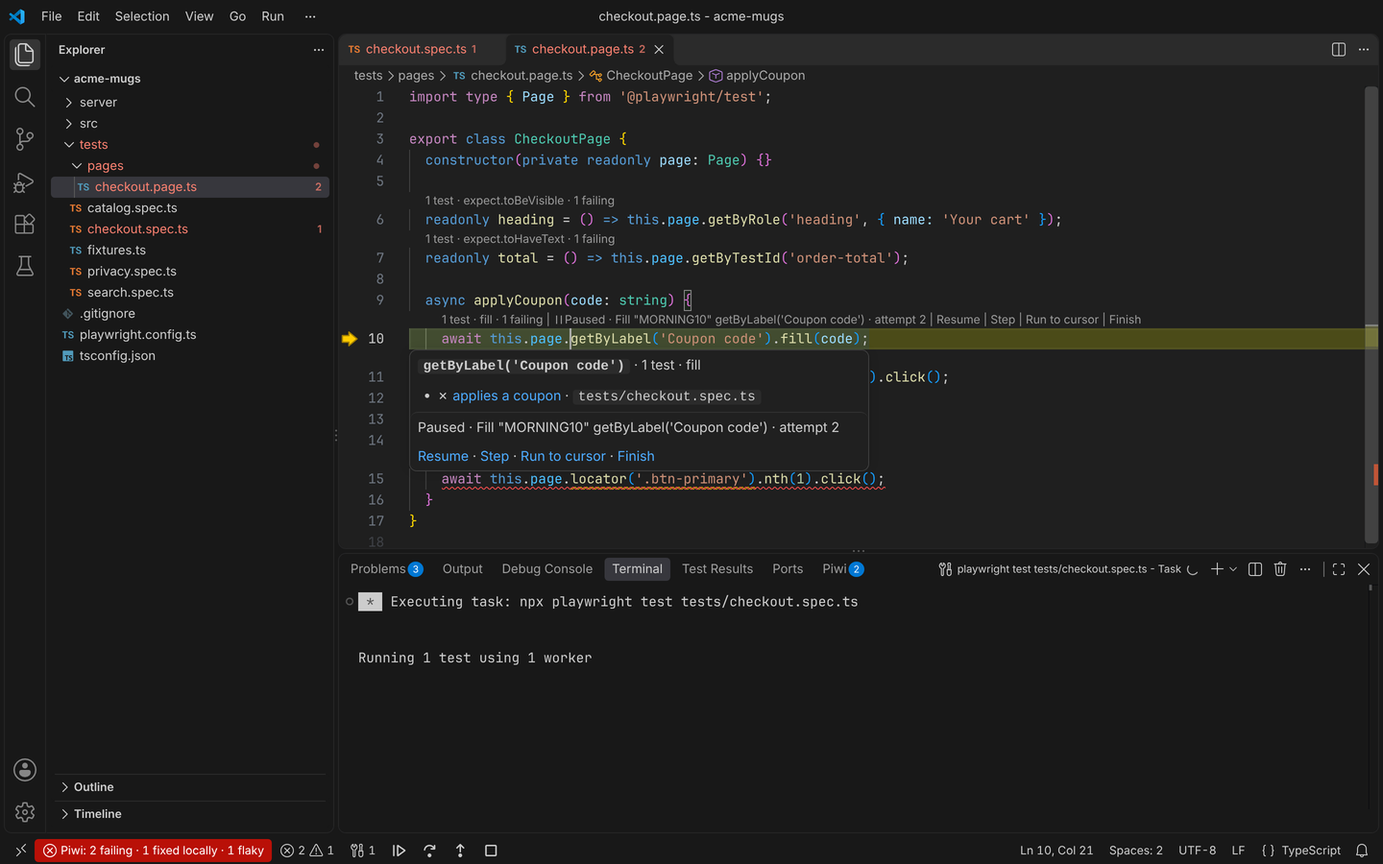
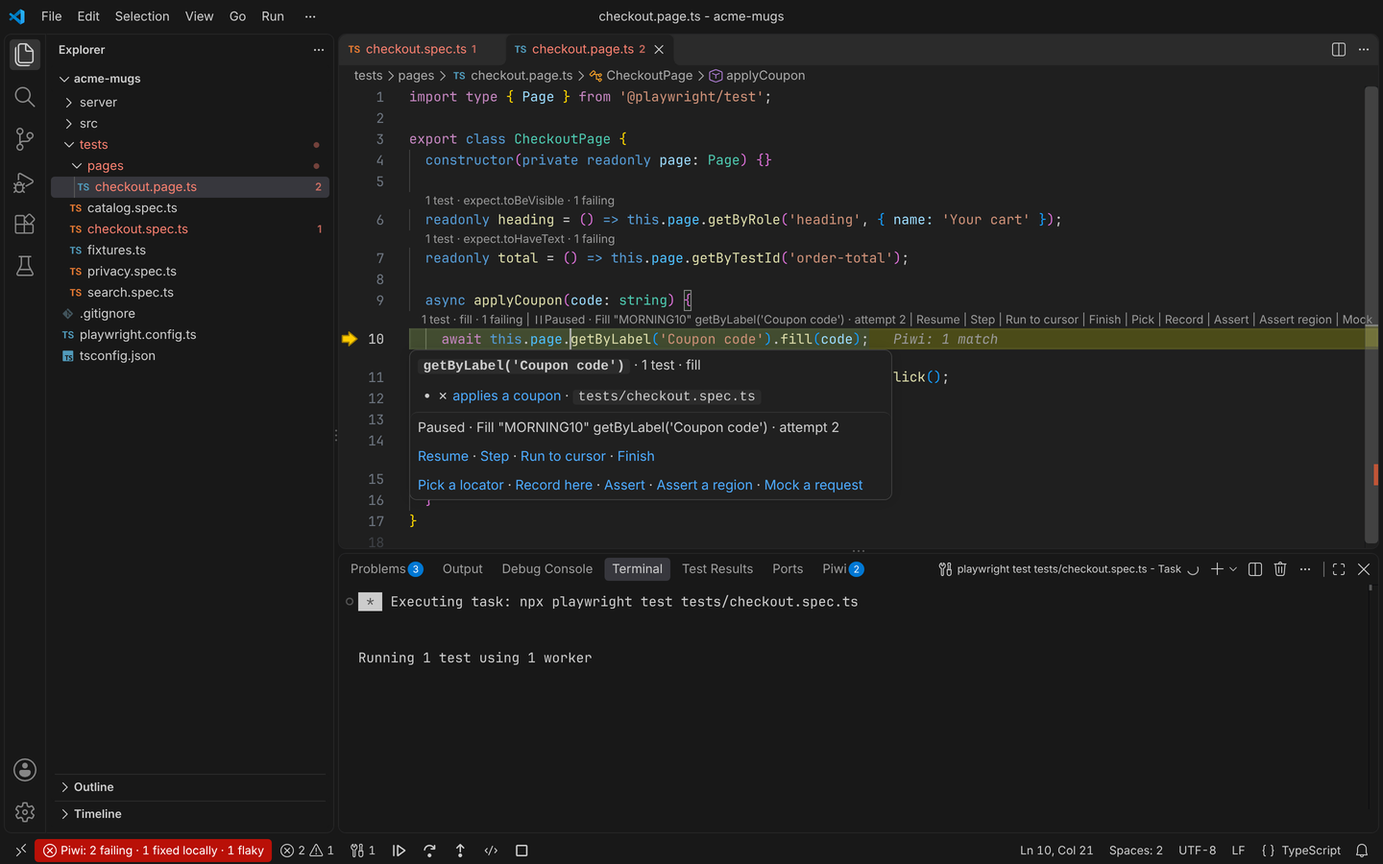
docs(docs): write code from a pause in the IDE, with Mock's list and the cursor's count on screen
Code from a pause is a feature page of its own (the run control page
is at its word budget), in the catalog after the run controls' page.
It says what the five actions write and where each IDE offers them, where the
code goes and when nothing is written, Mock a request's list and the
credentials and warnings of what it writes (the example is mockCode's
own output), the count of the locator at the cursor, a failure held
for the editor (only where someone can see it: a headed run's pause
bar, or a Runs window following the runs; the page at the failure is
Piwi's evidence, while Playwright's trace and video include the hold),
and its limits. The run control, editors and JetBrains pages and both
READMEs link to it.

The VS Code screenshots' run plays a worker whose reporter takes every
code action: run-control-code shows the stop's lens with the code
actions, the count at the line's end and Mock a request's list, and
the three run-control scenes are captured again with the lens they now
show. The window keeps its secrets in a file (--password-store=basic):
on a machine without an OS keyring SecretStorage never answers, and
the run never starts.

The run-control proposal's Status says PR 4's IDE half is built and how
it differs from the text; the 1.0 register says what a locator count's
answer names.

Claude-Session: https://claude.ai/code/session_01DKo6yNaaodQpN4msxRpgX1

Changed region(s): [[0.3125, 0.3422, 0.9688, 0.4044], [0.3125, 0.5289, 0.625, 0.5911], [0.3438, 0.9644, 0.375, 0.9956]]

diff --git a/apps/application/shared/piwi-features.ts b/apps/application/shared/piwi-features.ts
@@ -631,6 +631,15 @@ export const PIWI_FEATURE_GROUPS: FeatureGroup[] = [
         doc: 'features/editor-run-control',
       },
       {
+        title: 'Code from a pause',
+        summary:
+          "At a test paused or failed in a run Piwi started, an assertion, a region's ARIA snapshot or a mock of a request the page made written above the stopped line, a locator picked or steps recorded there, and the count of the locator at the cursor on the stopped page.",
+        needs: ['fixtures'],
+        where:
+          "The paused line's CodeLens in VS Code, Piwi: Write code at the stop…; its inlay and Tools → Piwi in a JetBrains IDE",
+        doc: 'features/editor-stop-code',
+      },
+      {
         title: 'Record tests from the editor',
         summary:
           "A browser your project's own Playwright opens from VS Code or a JetBrains IDE, and each step you take there written at the cursor as you go, with verified locators and calls to your page objects.",

diff --git a/apps/docs/features/editor-stop-code.md b/apps/docs/features/editor-stop-code.md
@@ -1,0 +1,143 @@
+---
+title: Code from a pause
+description: "At a test paused or failed in a run Piwi started from VS Code or a JetBrains IDE, write an assertion, a region's ARIA snapshot or a mock of a request the page made above the stopped line, pick a locator or record steps there, and see how many elements the locator at the cursor matches on the stopped page."
+lang: en-US
+---
+
+# Code from a pause
+
+<Needs reporter fixtures />
+
+When a test stops in a run the [editor extensions](./editors) started, at a breakpoint, after **Pause** or **Step**,
+or at a failure, the editor offers code written from the page as it stands: an assertion of what you see, a mock of a
+request the page made, a better locator, the missing steps. The work on the page happens in the test's own browser;
+the editor service writes the code, and the editor puts it above the stopped line. The controls that move the test
+are on [Pause and step from the editor](./editor-run-control).
+
+## The actions
+
+| Action | What is written | Where it runs |
+|---|---|---|
+| **Pick a locator** | The locator of the element you pick, in place of the locator chain on the stopped line | The test's window, as the pause bar's [Pick a locator](./editor-breakpoints#where-the-pick-lands) |
+| **Record here** | The steps you take, above the stopped line | The test's window, as the bar's [Record here](./editor-breakpoints#record-from-a-pause) |
+| **Assert** | The check you choose in the recorder's check panel, `await expect(…).toHaveText(…)` and the like | The test's window |
+| **Assert a region** | `await expect(…).toMatchAriaSnapshot(…)` with the ARIA snapshot of the region you pick | The test's window |
+| **Mock a request** | `await page.route(…)` that answers as the server answered a request the page made | The editor alone, at any stop |
+
+The first four need the pause bar, so a headed browser: a run Piwi starts with breakpoints is headed. **Mock a
+request** works headless too.
+
+- **In VS Code**, they are in the line above the stopped line, after the controls (named **Pick**, **Record**,
+  **Assert**, **Assert region** and **Mock** there), in its hover, in the palette while a stop offers them (**Piwi:
+  Assert in the stopped test's page**, **Piwi: Mock a request of the stopped test**…), and behind the status bar's
+  `</>` item, **Piwi: Write code at the stop…**.
+- **In a JetBrains IDE**, they are links in the inlay above the stopped line (by the same short names), in the
+  gutter icon's menu, first in the status bar item's menu, and under **Tools → Piwi** (**Assert at the Stop**, **Mock
+  a Request at the Stop**…).
+
+None has a default key: bind one in **Preferences: Open Keyboard Shortcuts** or **Settings → Keymap** (search
+`piwi`). A stop offers only the actions its reporter takes: with one that predates them, none.
+
+<figure>
+  <img src="/screenshots/vscode-run-control-code.png" alt="VS Code: a test paused before it types a coupon; above the line, the controls then Pick, Record, Assert, Assert region and Mock; at the line's end, Piwi: 1 match; at the top, the list of the requests the test made, to mock one">
+  <figcaption>Mock a request lists the answers the test received; the line's locator matches one element on the paused page.</figcaption>
+</figure>
+
+## Where the code goes
+
+The code goes on a new line above the stopped statement (the first line of a statement broken over lines), indented
+for it, on the page in scope there (`this.page` in a page object), with the import of `expect` the file lacks, as one
+edit that one undo takes away. A second action at the same stop goes above the same statement, under the first.
+The running test goes on with the code it started with: the new lines run next time, which the first code of a run
+says.
+
+Nothing is written, and the editor says why, at a stop:
+
+- outside a test's or a function's body, such as a test timeout stopped at its `test(` line;
+- as the body of an `if`, `else`, `for`, `while` or `do` without braces, or on a line where no statement starts;
+- in a file written on disk since the run started, or unsaved as it started: Piwi follows a file through the edits
+  the editor makes, not through another program's;
+- that the test went on from: an action answers the stop it was offered at.
+
+Assert and Assert a region check this before anything opens in the test's window. Code that arrives while you type in
+its file is not written into the changed text: a warning offers **Copy the code**.
+
+## Mock a request
+
+In a run Piwi started, each worker keeps the text answers its test's pages received for `fetch` and
+XHR requests, the latest 50, 256 KB each at most, in its memory only. **Mock a request** lists them, the latest first,
+by method and URL (type to filter on the URL), with the status, the type, the size (`no size` when the response did
+not say) and when it finished in the test. Only the answer you choose is read whole:
+
+```ts
+await page.route('**/api/shipping?country=FR', (route) =>
+  route.fulfill({
+    json: {
+      "methods": [
+        {
+          "id": "standard",
+          "price": 4.9
+        }
+      ],
+      "token": "<hidden>"
+    },
+  }),
+);
+```
+
+It is written as [Piwi Picker's Network tab](./mock-requests#mock-this-response) writes one, the body inline whatever
+its size, with what it hides:
+
+- **Credentials.** A field named like a password, a token, a key, a signature or a session is written as `<hidden>`,
+  whatever it holds, and so is a value shaped like a token anywhere in the body (a JWT, a bearer token, an AWS,
+  Google, Stripe, GitHub or Slack key); such a query value becomes `**` in the URL pattern. The list hides them in its
+  URLs too. Headers, cookies included, are never written.
+- **Warnings.** The editor says how many values it wrote as `<hidden>`, that a body neither JSON nor a form was
+  written as it came (read it before you commit it), and that a body seems to hold an email address or a phone
+  number (replace it with made-up data).
+
+## The locator at the cursor
+
+While a test is stopped, put the cursor on a line of the stopped file: its end says how many elements the line's
+locator matches on the stopped page, `Piwi: 3 matches`, `1 match` or `no match`, and where the pause bar shows, the
+matches are outlined in the page. Edit the locator and it is counted again once you stop typing. The outline goes
+when the cursor leaves the file or the test goes on.
+
+The locator must start from the page the test stopped on, as the code written there would: a line of `adminPage` at a
+stop on `page` may be another page, and says so for a moment instead of a count. Only the stopped file's lines are
+counted, and a line without a locator says nothing.
+
+## A failure
+
+In a run Piwi started, a failing test holds its page once the test function, its hooks and its fixtures are done,
+instead of closing it, when someone can see it: in a headed browser, where the pause bar shows the failure (a run
+started with breakpoints, or for a spec with `page.pause()`, is headed), or while Piwi Picker's
+[Runs window](./extension#runs-from-the-editor) follows the runs. The editor shows it as a stop of its own, at the
+line where the error entered the test's code, or at the call a test timeout cut short:
+
+`Failed · Timed out 5000ms waiting for getByRole('button', { name: 'Apply' }) · attempt 2`  Resume  Pick  Record …
+
+**Resume** lets the test end as it failed (**Step** and **Finish** do the same); **Pick** replaces the failing
+locator, **Record** writes the steps that were missing above the failing line, and the code actions work as at any
+stop. Every attempt that fails is held, never an expected failure. A headless failure in any other run, such as a
+plain **Run**, goes on at once, and the editor shows nothing of it.
+
+The run reports the failure as it happened. Piwi's evidence of it is the page at the failure: the requests, console
+entries and dialogs of the hold are not recorded. Playwright's own trace and video go on through it.
+
+## Limits
+
+- **Runs Piwi started only**, with a reporter that takes the actions.
+- **Assert offers what a recording's check panel offers**: a value, a text, a name, visible or hidden, enabled or
+  disabled, with no `toBeChecked` or `toHaveCount` choice.
+- **Assert a region** leaves out a password field's value and a link whose URL holds a credential.
+- **Mock a request** knows `fetch` and XHR answers with a text body only; one the browser no longer holds cannot be
+  mocked, which the editor says.
+- **The count needs a locator Piwi reads**: literal arguments, starting from a page in scope on the line.
+
+## Related
+
+- [Pause and step from the editor](./editor-run-control): the controls, the paused line, a headless test's page.
+- [Breakpoints in the browser](./editor-breakpoints): the pause bar, Pick a locator and Record here.
+- [Mock and slow down requests](./mock-requests): the same mocks from Piwi Picker's Network tab.
+- [Recorded code](./recorded-code): what a recording writes, and how the config shapes it.

diff --git a/apps/docs/features/editor-run-control.md b/apps/docs/features/editor-run-control.md
@@ -12,7 +12,8 @@ A test run the [editor extensions](./editors) start can be paused, stepped and r
 own commands: no debug session starts, and the IDE's debugger works as usual beside it. The editor marks the line the
 test stopped at, as a debugger does, and the breakpoints you set or remove reach the run while it goes on. The
 [pause bar](./editor-breakpoints#pause-a-run) in the page answers the same stops, as does Piwi Picker's
-[Runs window](./extension#runs-from-the-editor), with a shortcut you set to pause and resume from any window.
+[Runs window](./extension#runs-from-the-editor), with a shortcut you set to pause and resume from any window. At a
+stop, the editor also writes code from the page: [Code from a pause](./editor-stop-code).
 
 ## The controls
 
@@ -25,8 +26,8 @@ test stopped at, as a debugger does, and the breakpoints you set or remove reach
 | **Finish** | Runs the test on without stopping at a breakpoint again in this attempt | `Shift+F11` | Step Out's, `Shift+F8` |
 | **Stop** | Ends the run's process | `Shift+F5` | the Run tool window's Stop |
 
-The keys are the IDE's own debugger keys (VS Code's defaults; in a JetBrains IDE, those actions' shortcuts in your
-keymap, the default keymap's shown), Piwi's only while their control applies and no debug session runs. Where a
+The keys are the IDE's own debugger keys (in a JetBrains IDE, your keymap's, the default one's shown), Piwi's only
+while their control applies and no debug session runs. Where a
 JetBrains keymap also gives one to another action (the VSCode keymap's `F5`, NetBeans' `F4`), Piwi's goes first while
 it applies. On macOS, `Cmd+F10` runs to the cursor in VS Code. **Pause** has no key in VS Code, since it applies as
 long as the test runs: bind one in **Preferences: Open Keyboard Shortcuts** (search `piwi`), where the others change
@@ -48,15 +49,16 @@ Playwright's own debugger, says why.
 
 ## Where the test stands
 
-When a test stops, at a breakpoint, after **Step** or **Pause**, on the line it was run to, or at `page.pause()`, the
-editor opens the file of the call about to run, a spec or a page object, with the cursor on its line, and marks it:
+When a test stops, at a breakpoint, after **Step** or **Pause**, on the line it was run to, at `page.pause()`, or at
+[a failure](./editor-stop-code#a-failure), the editor opens the file of the call about to run, with the cursor on its
+line, and marks it:
 an arrow in the gutter, the debugger's execution point color, and above it the call, as Playwright names it, with the
 controls:
 
 `Paused · Fill "MORNING10" getByLabel('Coupon code') · attempt 2`  Resume  Step  Run to cursor  Finish
 
-`attempt 2` shows on a retry. In VS Code the line is a CodeLens, and the hover on the marked line has the same
-controls; the color is `piwi.executionPointBackground`. In a JetBrains IDE the line is an inlay whose words are links,
+`attempt 2` shows on a retry. In VS Code the line is a CodeLens, and the marked line's hover has the same controls;
+the color is `piwi.executionPointBackground`. In a JetBrains IDE the line is an inlay whose words are links,
 the arrow's click lists the controls, and the color is **Settings → Editor → Color Scheme → Piwi → Line a run is
 stopped at**. The mark goes when the test goes on (from the editor or the bar), ends, or closes its page.
 
@@ -67,7 +69,7 @@ stopped at**. The mark goes when the test goes on (from the editor or the bar), 
 
 With several workers stopped, each has its own mark, and the controls above a line act on its worker; a key or command
 acts on the one at the cursor's line, else asks which. A control answers the stop it was shown for: when the test went
-on meanwhile (a key pressed twice), it says so and asks nothing.
+on meanwhile, it says so and asks nothing.
 
 The run's code is your files as they stood when it started. The mark follows lines you add or remove above it, and
 **Run to cursor** in an edited file runs to the run's line for the cursor's; on a line written since, it says the test

diff --git a/proposals/run-control.md b/proposals/run-control.md
@@ -13,7 +13,7 @@ tools that follow the run, read the stopped page as its accessibility tree and a
 
 **Status.** Proposed 2026-10-24. PR 1 of the [Delivery](#delivery) is built: the pause is Playwright's debugger
 (Part 1), in headed runs with `PIWI_PAUSE_AT`, with today's pause bar; PRs 2 and 3 are built too, and PR 4's
-service half (below), while PR 4's surfaces and PRs 5 to 9 are not. PR 1 differs from the text in four ways. A headed
+service half and IDE clients (below), while PR 4's Runs window and PRs 5 to 9 are not. PR 1 differs from the text in four ways. A headed
 browser opens Playwright's Inspector at every stop of
 `context.debugger`, so the worker sets `PW_CODEGEN_NO_INSPECTOR` except while a `page.pause()` it leaves to
 Playwright runs (the switch is process-wide: a `page.pause()` of a second copy of Playwright in the worker, which Piwi
@@ -107,7 +107,7 @@ stopped pauses every run. A run that ends says so, with the tests it ran last, a
 token goes to `…/live` or to Send to editor's endpoint, the program on the paired port proves it holds it
 (`editorTokenProof`, as the desktop app's pairing does), asked on `…/live`, which takes a GET in both IDEs, else it is
 sent nothing. PR 4's service half is the worker's part of Part 5, the editor service's code and the three
-protocols; both IDE clients and the Runs window are to come, from `piwi/stopAction`, `piwi/stopRequests`,
+protocols; the Runs window is to come, from `piwi/stopAction`, `piwi/stopRequests`,
 `piwi/locatorAtCaret`, `piwi/stopCode` and the hub's `assert`, `assert-region`, `requests` and `mock`. It differs from
 the text in eight ways. The code reaches the client in a notification of its own (`piwi/stopCode`: the run, the stop,
 the file and its version, and the edits, the import lines the block needs and the block above the stopped
@@ -143,6 +143,18 @@ with the reason `breakpoint`, as the record channel's `attach` names two. The pa
 the code actions, which start from the IDE and the Runs window; the paused call going on with its old code is said in
 the first code of each run. `run-attach.takes` lists the queries (`requests`, `mock`, `locator`) beside the intents,
 and the hub's `intents` the actions a stop takes (`mock` when the worker lists and hands over responses).
+PR 4's IDE half is both clients' side of it, and differs from the text in five ways. The code actions are where
+the paused line's controls are (VS Code's CodeLens and hover, a JetBrains IDE's inlay and gutter popup), in the
+palette or under **Tools → Piwi** while a stop offers them, and in the status bar, only those the stopped worker takes,
+the ones in the test's window only where the pause bar shows, with no key; the lens and the inlay name them shorter
+(Pick, Record, Assert, Assert region, Mock), the stop's lens sharing its row with the line's own. Mock a request lists
+the responses the latest first. The code is written in one edit (one undo step) through an editor of its file, a
+JetBrains IDE opening the file first and writing once the platform told the service, and only into the version of
+the text the service placed it in, else it is offered to copy. The locator at the caret is counted 200 ms after the
+caret settles, one request at a time, at the end of its line; a line holding no locator says nothing, which the
+answer tells apart from a refusal by naming the chain it read in a refusal too. A failure reads `Failed · <how it
+failed> · attempt N`, with Resume alone among its controls, and one the service lets go at once never reaches a
+client, so a plain Run's headless failure shows nothing.
 The spikes in the
 [appendix](#appendix-the-spikes) are the evidence for the feasibility claims; they are not part of the repository.
 Nothing here is on [`ROADMAP.md`](../ROADMAP.md) yet. The contracts it would add are entry D60 of

diff --git a/apps/vscode/AGENTS.md b/apps/vscode/AGENTS.md
@@ -171,8 +171,9 @@ when one is missing), beside the extension's own bundle (`dist/extension.cjs`, e
   back through them), only to a run whose places differ from those its command started with or was last sent
   (`breakpointUpdates`), and once to a run as its first worker connects. A stop's lens and hover also offer the code
   actions its worker takes (`RunWorker.takes`, `stopActions`): **Pick a locator**, **Record here**, **Assert** and
-  **Assert a region** at a stop the pause bar shows, **Mock a request** at any, each a `piwi/stopAction` naming its
-  stop, in the palette while a stop offers it (`piwi.pickAtStop`, `piwi.recordAtStop`, `piwi.assertAtStop`,
+  **Assert a region** at a stop the pause bar shows, **Mock a request** at any (the lens names them shorter, `lens`:
+  its row is shared with the line's own lenses), each a `piwi/stopAction` naming its stop, in the palette while a stop
+  offers it (`piwi.pickAtStop`, `piwi.recordAtStop`, `piwi.assertAtStop`,
   `piwi.assertRegionAtStop`, `piwi.mockAtStop`, the `piwi.runCan…` context keys) and in the status bar's `$(code)`
   item, **Piwi: Write code at the stop…** (`piwi.codeAtStop`); none has a key. Mock a request lists `piwi/stopRequests`
   in a quick pick, the latest first (`requestPicks`: the method and URL, which it filters on, then the status, type,
@@ -319,8 +320,10 @@ with Playwright's Electron support. On Linux, run it under Xvfb at twice the win
 that fails leaves `vscode-<scene>-failed.png` with the window as it stood. The `run-control` scenes share one run of
 the coupon test, started with **Run the test at the cursor**: its task's `npx playwright` finds the stand-in command
 `scripts/lib/run-worker.mjs` writes into the fixture, which hands the script the run channel, and the script plays the
-run's worker there, as the integration suite does; the paused page is the fixture shop's page, rendered by Playwright's
-Chromium. The JetBrains plugin's script reuses the fixture, so a change to it recaptures both sets. What was found
+run's worker there, as the integration suite does, its reporter taking every code action (`RUN_TAKES`), answering a
+count at the cursor with one match and listing three kept responses, which `run-control-code` shows in Mock a
+request's list; the paused page is the fixture shop's page, rendered by Playwright's Chromium. The window keeps its
+secrets in a file (`--password-store=basic`): without an OS keyring, `SecretStorage` never answers and no run starts. The JetBrains plugin's script reuses the fixture, so a change to it recaptures both sets. What was found
 about driving VS Code this way is recorded in [`proposals/real-editor-checks.md`](../../proposals/real-editor-checks.md).
 
 **The nightly suite** (`tests/e2e/`, `npm run vscode:test:e2e`) opens the same fixture in the same window and asserts

diff --git a/apps/docs/features/editors.md b/apps/docs/features/editors.md
@@ -25,7 +25,7 @@ in the extensions view) or the **[JetBrains Marketplace ↗](https://plugins.jet
 the reporter already uses: the `PIWI_*` variables in the environment or the workspace `.env`, or the
 [desktop app](/features/desktop). Otherwise, run **Piwi: Connect** (**Settings → Tools → Piwi** in a JetBrains IDE)
 and sign in with the browser: [Editor connection](./editor-connection) has the steps.
-In VS Code, the extension also opens a path clicked in the dashboard, with no root to set:
+In VS Code, the extension also opens a path clicked in the dashboard:
 [Open in IDE](./ide-integration#vs-code-the-piwi-extension).
 
 In VS Code, the first workspace with a Playwright config opens the **Get started with Piwi** walkthrough, once per
@@ -120,14 +120,14 @@ your API keys. The desktop app keeps its own token.
 | Piwi: Pair with Piwi Picker | Copy the address [Piwi Picker sends to](./editor-recording#send-from-piwi-picker) |
 | Piwi: Record here, Record a new test file | Record at the cursor, or into a new spec: [Record tests from the editor](./editor-recording) |
 | Piwi: Stop recording, Pause recording, Resume recording | Control the recording in progress |
-| Piwi: Pause the run, Resume the run, Step to the next call, Run to the cursor, Finish the test without stopping again, Stop the run, Show the paused page | [Pause and step from the editor](./editor-run-control) |
+| Piwi: Pause the run, Resume the run, Step to the next call, Run to the cursor, Finish the test without stopping again, Stop the run, Show the paused page, Write code at the stop… | [Pause and step from the editor](./editor-run-control), [Code from a pause](./editor-stop-code) |
 | Piwi: Toggle the coverage marks | Show or hide the [coverage marks](./editor-coverage) |
 | Piwi: Open the log | Show the editor service's log; the `piwi.trace.server` setting adds its traffic |
 | Piwi: Get started | Open the walkthrough |
 
-Three commands have the same shortcut in VS Code and the JetBrains IDEs, free in their default keymaps on Windows,
-Linux and macOS: `Ctrl+Shift+Alt+K` runs the test at the cursor, `Ctrl+Shift+Alt+F` re-runs the failing
-tests, and `Ctrl+Shift+Alt+R` records at the cursor, then stops the recording; `Cmd` for `Ctrl` on macOS.
+Three commands have the same shortcut in VS Code and the JetBrains IDEs, free in their default keymaps:
+`Ctrl+Shift+Alt+K` runs the test at the cursor, `Ctrl+Shift+Alt+F` re-runs the failing tests, and `Ctrl+Shift+Alt+R`
+records at the cursor, then stops the recording; `Cmd` for `Ctrl` on macOS.
 **Preferences: Open Keyboard Shortcuts** changes them in VS Code (search `piwi`), **Settings → Keymap** in a
 JetBrains IDE (search `Piwi`).
 

diff --git a/proposals/1.0-stabilization.md b/proposals/1.0-stabilization.md
@@ -1221,7 +1221,8 @@ The run control plan ([`run-control.md`](run-control.md)) adds these as it ships
   (`ref`, `worker`, `since`, `action`: `pick`, `record`, `assert`, `assert-region`, `mock`, `request` for `mock`;
   answered `{ ok, message }`), `piwi/stopRequests` (`ref`, `worker`, `since`; answered `{ ok, message, requests }`),
   `piwi/locatorAtCaret` (`ref`, `worker`, `since`, `uri`, `line`, null for both taking the outline down; answered `{
-  ok, message, locator, count }`), each refused without `since`, the `piwi/stopCode` notification (`ref`, `worker`,
+  ok, message, locator, count }`, `locator` the chain read, counted or refused, null for a line holding none), each
+  refused without `since`, the `piwi/stopCode` notification (`ref`, `worker`,
   `since`, `action`, `uri`, `version`, `line`, `code`, `edits`, `message`, `warnings`), the `stopCode` initialization
   option by which a client says it writes that code, `RunWorker.takes`, and `failure` among the stop reasons. On the
   hub: the commands `assert`, `assert-region`, `requests` (answered with `requests`) and `mock` (`request`), each with

diff --git a/apps/docs/features/jetbrains.md b/apps/docs/features/jetbrains.md
@@ -51,6 +51,10 @@ action is under **Tools → Piwi**:
   an inlay above it with **Resume**, **Step**, **Run to Caret** and **Finish**; they are also first in the status bar
   item's menu and under **Tools → Piwi**, with **Pause the Run** and **Stop the Run**. A headless test's page shows in
   the Piwi tool window's **Paused Page** tab.
+- **[Code from a pause](./editor-stop-code)**: the inlay, the arrow's menu, the status bar item's menu and **Tools →
+  Piwi** also offer **Pick a Locator**, **Record Here**, **Assert**, **Assert a Region** and **Mock a Request** (the
+  inlay names them shorter), whose code goes above the stopped line in one undoable edit; the end of the caret's line
+  says how many elements its locator matches on the stopped page, and a failure held there reads `Failed · …`.
 - **The severity of a failure**: **Settings → Tools → Piwi → Runs** chooses it
   ([CI failures in the Problems panel](./editor-failures#ci-failures-in-the-problems-panel)); an information shows as a
   weak warning.

diff --git a/proposals/real-editor-checks.md b/proposals/real-editor-checks.md
@@ -187,6 +187,11 @@ Verified on VS Code 1.143.0, the stable build `@vscode/test-electron` downloaded
   keeps the bell's dot until Clear All Notifications runs. The paused page webview's document is
   `frameLocator('iframe.webview').frameLocator('#active-frame')`. A symbol such as `⏸` (U+23F8) has no glyph in the
   editor font and renders as a small square on Linux, so a lens's icon is a codicon (`$(debug-pause)`).
+- **Secrets without a keyring** (VS Code 1.143.1). On a Linux machine with no OS keyring and no session bus, as in a
+  container, the extension's `SecretStorage` never answers, so a run, which mints the pairing's token there, never
+  starts; the window is launched with `--password-store=basic`, which keeps the profile's secrets in a file of its own.
+  A CodeLens row wider than the editor is moved left past the line's start rather than wrapped: the *run-control-code*
+  scene closes the side bar and the panel to show the stop's lens whole.
 
 ## 4. What was found about the browser extension
 

diff --git a/apps/vscode/README.md b/apps/vscode/README.md
@@ -18,7 +18,8 @@ brings that into VS Code, Cursor and VSCodium.
   runs since; each test re-runs, opens its trace or its page in one click, and **Re-run the failing tests** runs them
   all. A run started there pauses at your breakpoints in the browser, where a locator you pick replaces the one on
   that line, and the editor marks the paused line, then steps the run, runs it to the cursor or resumes it with the
-  debugger's keys.
+  debugger's keys. From the paused line, it writes an assertion or a mock of a request the page made, and counts the
+  matches of the locator at the cursor on the paused page.
 - **The tests behind each line.** Each test's latest result in the gutter, a failing test's body tinted, its history
   on hover; above each locator line, the tests that use it; above an application file, the tests that reach it.
 - **Coverage marks.** With coverage recorded, the lines your tests ran, in TypeScript, JavaScript and C# alike, the

diff --git a/apps/jetbrains/README.md b/apps/jetbrains/README.md
@@ -30,7 +30,7 @@ in any JetBrains IDE with the LSP API and JavaScript support, from 2024.1, with 
   Playwright and writes what you do there into the test, calling your page objects when connected. No instance needed.
 - **The status bar.** The latest run, the run you started as it runs, and what it changed once it ended. That run
   pauses at your breakpoints, its paused line marked in the editor, and steps, runs to the caret or resumes with the
-  debugger's keys.
+  debugger's keys; from the paused line, the plugin writes an assertion or a mock of a request the page made.
 
 ![The Piwi tool window below the editor: the latest run's failures as a tree, a local run laid over them, the failing tests tinted in the spec](https://piwitests.dev/screenshots/jetbrains-failures.png)
 
